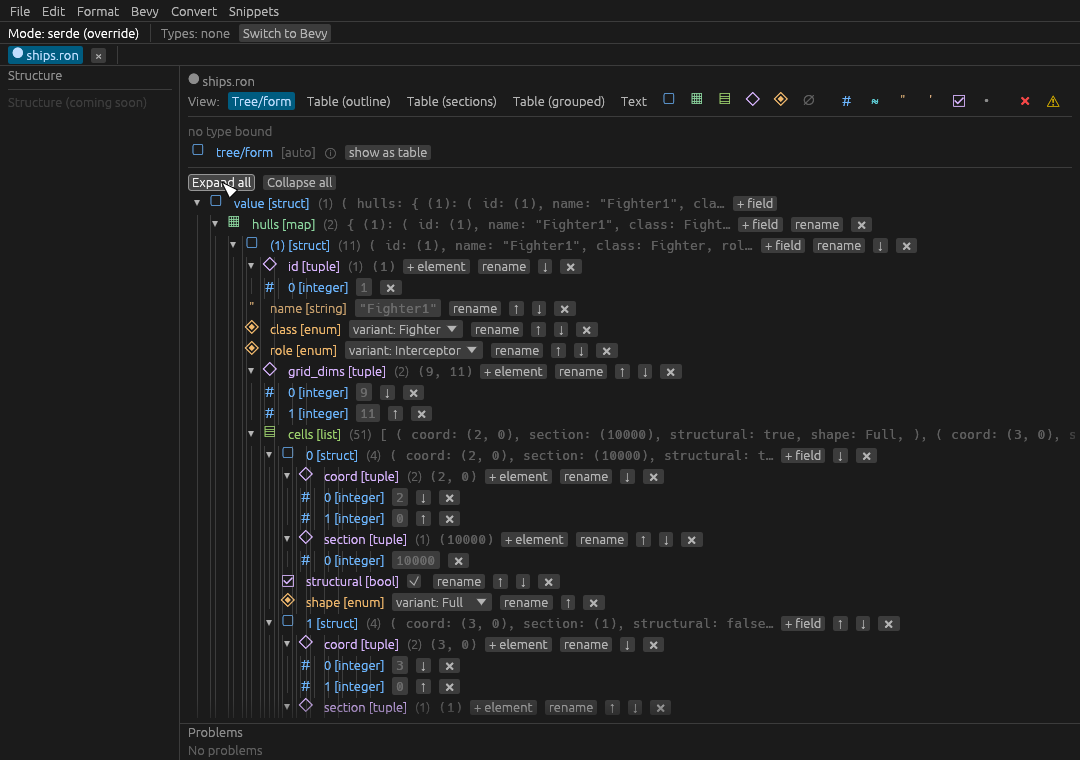
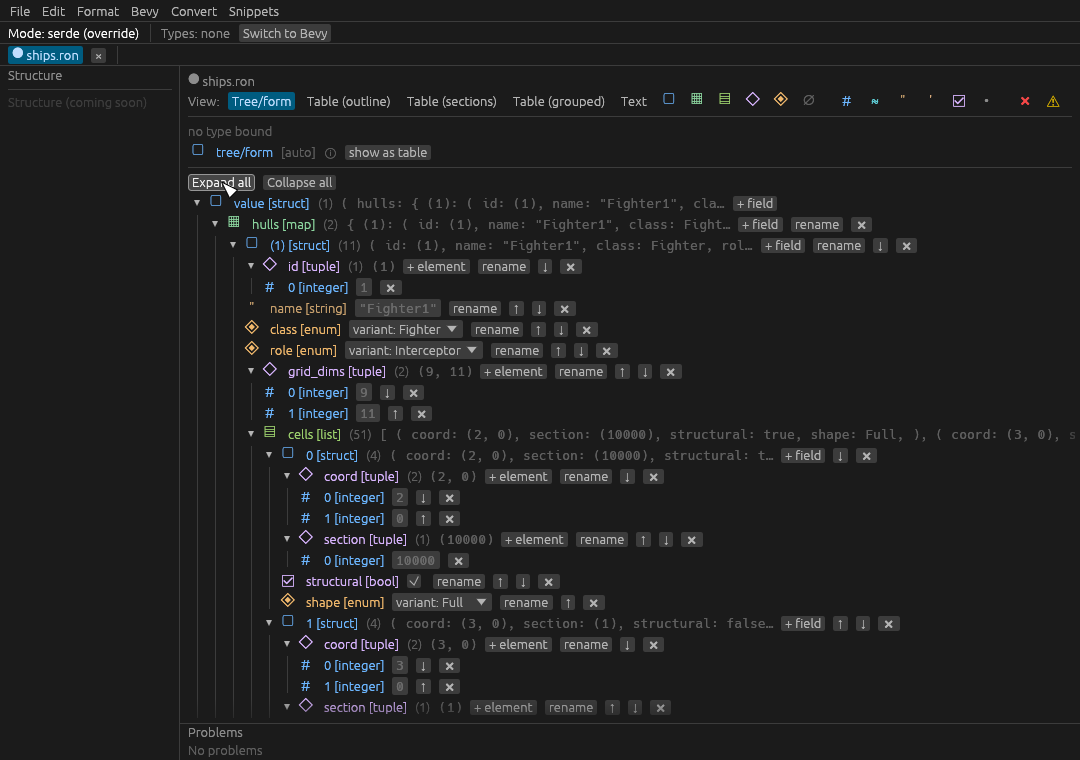
fix(tree): remove doubled custom indent guides; use egui's native vline
Tree/form drew indent guides twice: egui's native per-level left vline (on by
default) PLUS a custom draw_indent_guides that painted `depth` extra lines per
row marching rightward at a 14px step (!= egui's ~18px indent), so the lines
doubled up and drifted into a thicket, worst at depth. Remove the custom guides
and the now-unused `depth` plumbing; keep egui's single clean per-level guide.
Regenerated tree-form-view.png.

Changed region(s): [[0.2444, 0.6053, 0.3056, 0.9382], [0.2444, 0.5145, 0.275, 0.5447], [0.2444, 0.3632, 0.275, 0.3934]]

diff --git a/src/ronin-app/src/structural/tree.rs b/src/ronin-app/src/structural/tree.rs
@@ -1104,7 +1104,7 @@ pub fn render_tree_view(ui: &mut Ui, doc: &mut EditorDocument, worker: &ReparseW
                 if i > 0 {
                     ui.separator();
                 }
-                render_node(ui, root, None, 0, &mut ctx);
+                render_node(ui, root, None, &mut ctx);
             }
         });
 
@@ -1315,19 +1315,15 @@ pub fn set_subtree_open(ctx: &egui::Context, doc_id: u64, node: &TreeNode, open:
 
 /// Render one tree node row + (recursively) its expanded children. `sibling` is
 /// `Some` for a child within a collection (it then offers reorder/remove controls),
-/// `None` for the root; `depth` is the node's nesting level (root = 0), used to draw
-/// the per-level indent guides in the left margin (visual only).
+/// `None` for the root. Per-level indent guides are egui's native left vline
+/// (`Visuals::indent_has_left_vline`, on by default), drawn by each `CollapsingState`
+/// body's indented region — no custom guide painting (which previously doubled up).
 fn render_node(
     ui: &mut Ui,
     node: &TreeNode,
     sibling: Option<&SiblingCtx>,
-    depth: usize,
     ctx: &mut RenderCtx,
 ) {
-    // Indent guides: a thin vertical line per nesting level in the left margin,
-    // painted across this node row's vertical extent (visual only — no model change).
-    let row_top = ui.cursor().top();
-
     let indicator = node_indicator(node);
     let header = node_header(node, ui);
     let summary = node_summary_text(node);
@@ -1375,7 +1371,7 @@ fn render_node(
                     index: i,
                     count,
                 };
-                render_node(ui, child, Some(&sib), depth + 1, ctx);
+                render_node(ui, child, Some(&sib), ctx);
             }
         });
     } else {
@@ -1390,33 +1386,6 @@ fn render_node(
             render_rename_control(ui, node, sibling, ctx);
             render_sibling_controls(ui, node, sibling, ctx.pending);
         });
-    }
-
-    // Paint the indent guides over this row's vertical extent (after layout so the
-    // row's height is known). One thin vertical line per ancestor level (depth), in a
-    // weak theme color, in the left margin.
-    let row_bottom = ui.cursor().top();
-    draw_indent_guides(ui, depth, row_top, row_bottom);
-}
-
-/// Draw `depth` thin vertical guide lines in the left margin spanning `[top, bottom)`
-/// (E013 / Part B — indent guides). Visual only: it paints over already-laid-out rows
-/// and reads nothing from the model. A weak theme color keeps the guides subtle.
-fn draw_indent_guides(ui: &Ui, depth: usize, top: f32, bottom: f32) {
-    if depth == 0 || bottom <= top {
-        return;
-    }
-    /// Horizontal spacing between adjacent indent guide lines (px).
-    const STEP: f32 = 14.0;
-    let left = ui.max_rect().left() + 4.0;
-    let color = ui.visuals().weak_text_color().gamma_multiply(0.5);
-    let painter = ui.painter();
-    for level in 0..depth {
-        let x = left + level as f32 * STEP;
-        painter.line_segment(
-            [egui::pos2(x, top), egui::pos2(x, bottom)],
-            egui::Stroke::new(1.0, color),
-        );
     }
 }
 